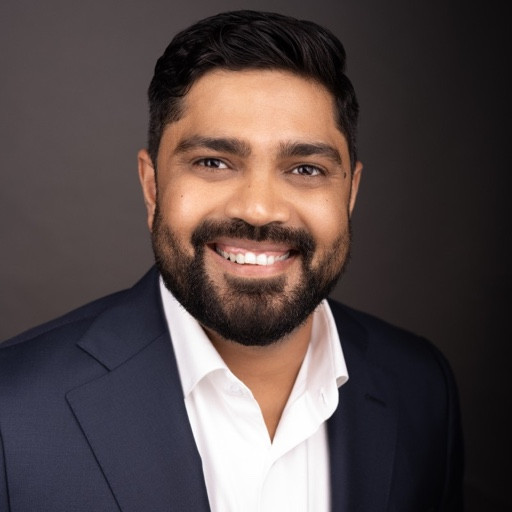
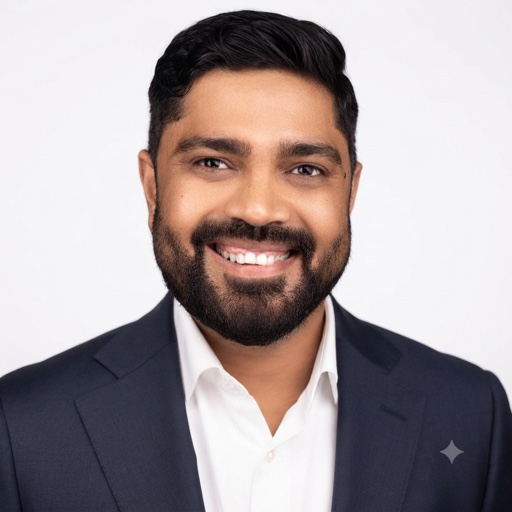
Use white-backdrop studio photo for Prafull Kumar
The previous 800px file was sharp enough, but it was the only shot in row 1
against a dark grey backdrop, so under the duotone that card sat darker than
its four neighbours. A consistency fix rather than a resolution one — row 1
is now five studio portraits on light backdrops.

diff --git a/logs/PROJECT_LOG.md b/logs/PROJECT_LOG.md
@@ -737,3 +737,15 @@
 **Verification:** 10 files, all distinct by MD5; screenshots re-captured at all three breakpoints.
 
 **Status:** ✅ SUCCESS
+
+## 2026-09-22 — Leadership section: Prafull Kumar photo upgraded
+
+**Change:** `public/images/leadership/prafull-kumar.jpg` replaced with a 1024×1024 studio original on a white backdrop, re-normalised to 512×512 JPEG q88.
+
+**Why, given the old one was already decent:** the previous 800px file was sharp enough, but it was shot against a dark grey backdrop — the only one in row 1 that was. Under the duotone the whole card sat darker than its four neighbours. This was a consistency fix rather than a resolution fix, and row 1 is now five studio portraits on light backdrops.
+
+**Remaining originals:** Balaram 282px, Vish 347px, Arun 400px. Seven of ten upgraded. Balaram is now the clear outlier — a darker, busier frame sitting between four light studio portraits in row 2.
+
+**Verification:** 10 files, all distinct by MD5; screenshots re-captured at all three breakpoints.
+
+**Status:** ✅ SUCCESS
